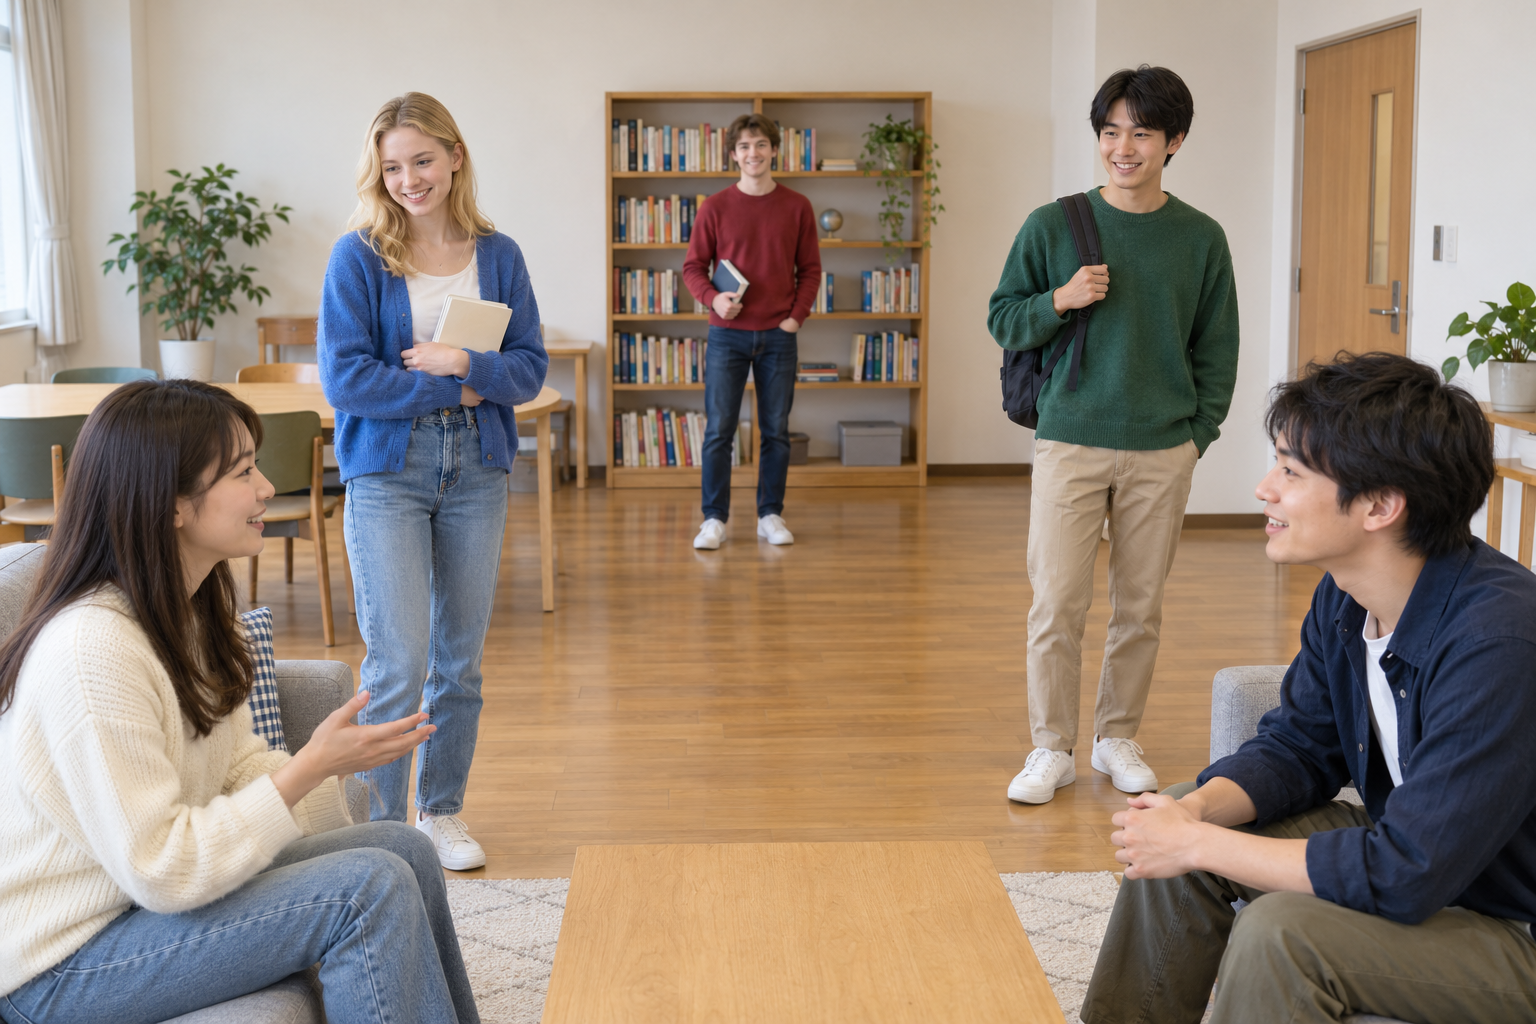
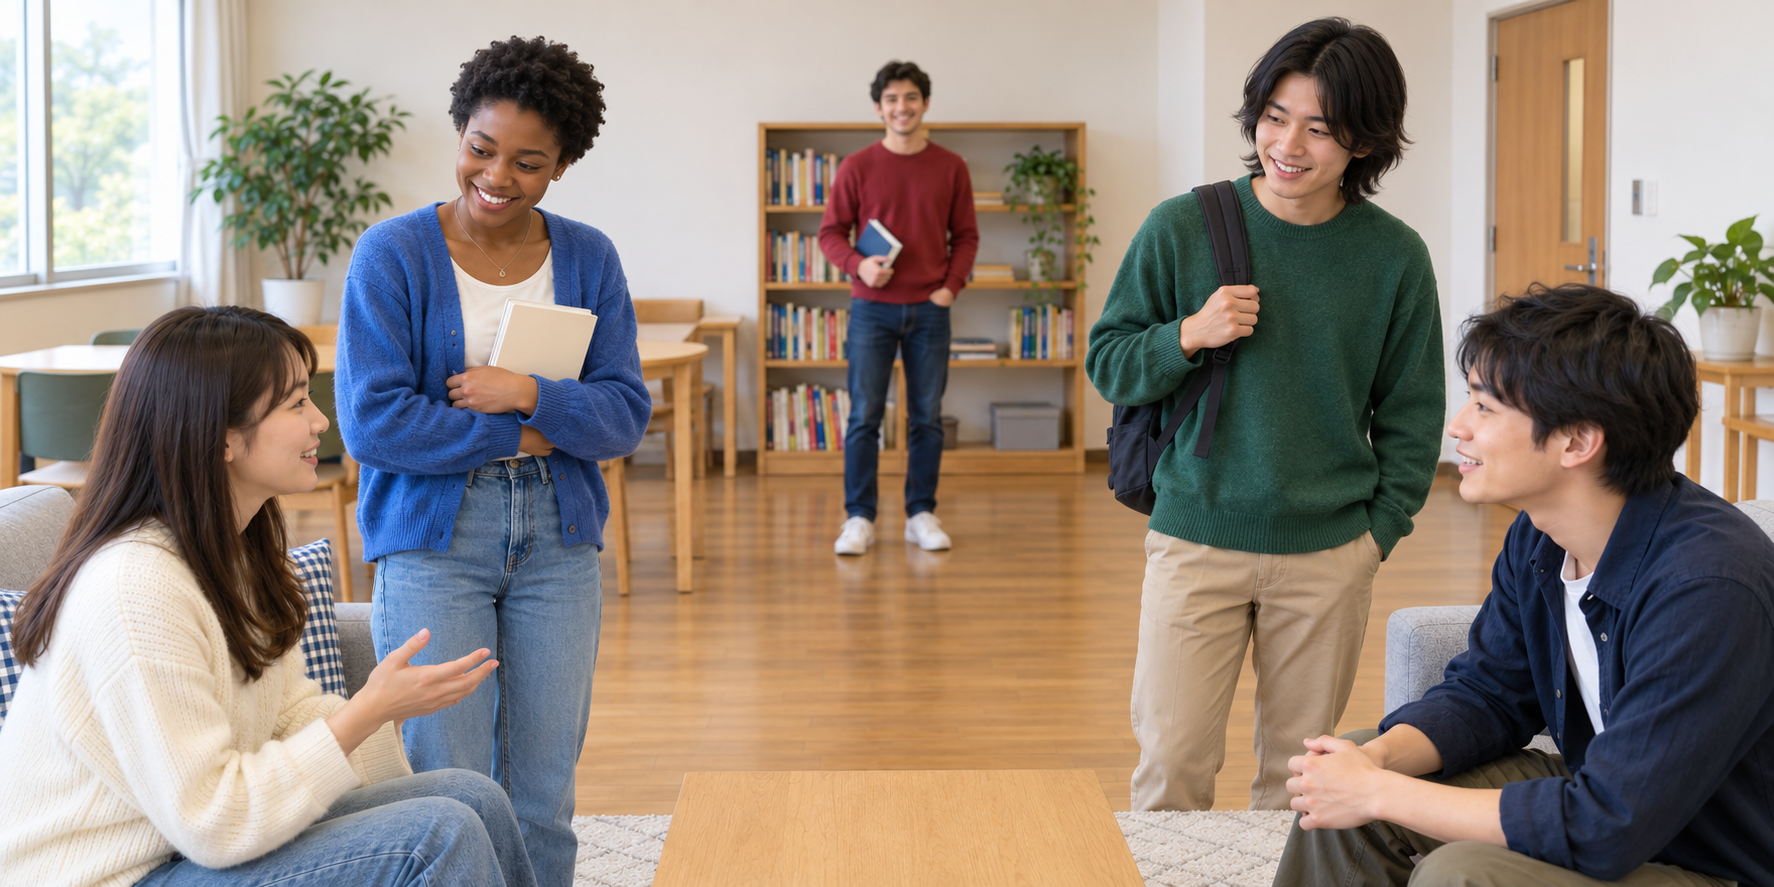
Integrate who-is-this-person topic into practice 2.2 Drill 3

diff --git a/practice2-next.js b/practice2-next.js
@@ -1315,7 +1315,7 @@ function practice2ShowNotice(resultSpan, message) {
         }
         const audioGrid=node('div','p2x-audio-grid');
         for(const [i,o] of objects.entries()) {
-            const position=hats?shopGeometry.centers[['A','B','far'].indexOf(o.zone)]:!is22?{A:[20,84],B:[51,84],far:[84,76]}[o.zone]:people?{A:[28,48],B:[73,46],far:[50,35]}[o.zone]:{A:[25,52],B:[73,53],far:[50,23.5]}[o.zone];
+            const position=hats?shopGeometry.centers[['A','B','far'].indexOf(o.zone)]:!is22?{A:[20,84],B:[51,84],far:[84,76]}[o.zone]:people?{A:[28,51],B:[72,51],far:[51,36]}[o.zone]:{A:[25,52],B:[73,53],far:[50,23.5]}[o.zone];
             const target=node('div',people?'p2x-person-target':'p2x-object');target.dataset.zone=o.zone;target.dataset.kind=o.kind;target.dataset.color=o.colorName||'';
             target.style.left=position[0]+'%';target.style.top=position[1]+'%';
             if(photoKind==='clock'){target.style.width=(o.zone==='A'?11:10)+'%';target.style.aspectRatio=o.zone==='B'?'1.8':'1';}
@@ -1627,7 +1627,7 @@ function practice2ShowNotice(resultSpan, message) {
 
     function renderSections() {
         shopAudioCleanups.splice(0).forEach(cleanup=>cleanup());
-        for(const id of ['drill1Container','drill2Container','drill3Container',...(is22?['peopleContainer']:['drill4Container'])]){const c=document.getElementById(id);c.replaceChildren();c.hidden=false;}
+        for(const id of ['drill1Container','drill2Container','drill3Container',...(is22?[]:['drill4Container'])]){const c=document.getElementById(id);c.replaceChildren();c.hidden=false;}
         if(!is22){renderCitySections();return;}
         const d1=document.getElementById('drill1Container');
         const exObjects=is22?[['A','せんえん','千円',1000],['B','さんぜんえん','三千円',3000],['far','よんせんえん','四千円',4000]].map(([zone,priceHira,priceKanji,priceNumber])=>({kind:'hat',hira:'ぼうし',kanji:'帽子',romaji:'bōshi',meaning:'hat',zone,priceHira,priceKanji,priceNumber})):places();
@@ -1670,7 +1670,7 @@ function practice2ShowNotice(resultSpan, message) {
             });
         }
         }
-        if(is22){renderPriceDialogue(document.getElementById('drill2Container'));renderFoodChoosing(document.getElementById('drill3Container'));renderDialogue();}
+        if(is22){renderPriceDialogue(document.getElementById('drill2Container'));renderFoodChoosing(document.getElementById('drill3Container'));}
         else {renderDialogue();renderChoosing();}
     }
     function renderPriceStatements(container) {
@@ -1702,6 +1702,7 @@ function practice2ShowNotice(resultSpan, message) {
         });
     }
     function renderFoodChoosing(container) {
+        if(practice2State.choosingSet===2){renderPeopleChoosing(container);return;}
         const exampleObjects=merchandise('fruit'),sample=exampleObjects[0],box=node('section','example-box p2x-dialogue-example p2x-food-example');
         const selectExample=scene(box,exampleObjects,{which:true,model:true});
         const qText=o=>'どの'+noun(o)+'が、'+price(o)+(speechStyle==='formal'?'ですか？':'？');
@@ -1709,7 +1710,7 @@ function practice2ShowNotice(resultSpan, message) {
         q.append(node('strong','','A · Question: '),listen(()=>{selectExample('A',sample.zone);return qText(sample);},'🔊きく',()=>selectExample.announce('A')),modelText(()=>qText(sample),sample));
         r.append(node('strong','','B · Response: '),listen(()=>{selectExample('B',sample.zone);return short(adnominal('B',sample));},'🔊きく',()=>selectExample.announce('B')),modelText(()=>short(adnominal('B',sample)),sample));box.append(q,r);container.append(box);
         panel(container,'Drill 3: どの + noun','💡A: Ask which group has that price. B: この／その／あの + noun. ※ Price = whole group. Nouns and この／その／あの keep the same form for one or more items.');
-        const set=setButtons(container,['おにぎり',word('おべんとう','お弁当')],'choosingSet'),objects=merchandise(set===0?'onigiri':'bento'),select=scene(container,objects,{which:false,speakerGuide:false});
+        const set=setButtons(container,['おにぎり',word('おべんとう','お弁当'),'この人はだれ'],'choosingSet'),objects=merchandise(set===0?'onigiri':'bento'),select=scene(container,objects,{which:false,speakerGuide:false});
         objects.forEach((o,i)=>{
             const current=card(container,String(i+1)),prefix=`p22_food_s${set}_A_${i}`;
             const q=recordingRow(current,'q',`<strong>A · Question:</strong> どの／${vocabulary(o)}／${priceCue(o)}`,prefix+'_q',()=>qText(o));
@@ -1718,6 +1719,32 @@ function practice2ShowNotice(resultSpan, message) {
             attach(q,'A',o,select);attach(r,'B',o,select);
         });
     }
+    function renderPeopleChoosing(container) {
+        const set=practice2State.dialogueSet===1?1:0,asker=set===0?'A':'B',answerer=asker==='A'?'B':'A';
+        const objects=PracticeNext.people.map((o,i)=>({...o,zone:['A','B','far'][i]})),sample=objects[0];
+        const box=node('section','example-box p2x-dialogue-example p2x-people-example');
+        box.append(node('p','p2x-context-note','どれ = which one? · だれ = who?'));
+        const showExample=scene(box,objects,{people:true,model:true});
+        const qtext=()=>question(demonstrative(asker,sample)+word('ひと','人'),word('だれ','誰')),rtext=()=>short(noun(sample)+'さん');
+        for(const [role,speaker,text]of [['Question',asker,qtext],['Response',answerer,rtext]]){
+            const line=node('p');line.append(node('strong','',`${speaker} · ${role}: `),listen(()=>{showExample(speaker,sample.zone);return text();},'🔊きく',()=>showExample.announce(speaker)),modelText(text,sample));box.append(line);
+        }
+        container.append(box);
+        panel(container,'Drill 3: この人はだれですか','💡Ask who each person is. Answer with the name.');
+        setButtons(container,['おにぎり',word('おべんとう','お弁当'),'この人はだれ'],'choosingSet');
+        setButtons(container,['A asks','B asks'],'dialogueSet');
+        const select=scene(container,objects,{people:true,speakerGuide:false});
+        objects.forEach((o,i)=>{
+            const c=card(container,String(i+1)),prefix=`p22_d2_s${set}`;
+            const subject=()=>demonstrative(asker,o)+word('ひと','人');
+            const q=recordingRow(c,'q',`<strong>${asker} · Question:</strong> ${demonstrative(asker,o)}／${formatWord('ひと','人','hito','person')}／${formatWord('だれ','誰','dare','who')}`,`${prefix}_q_${i}`,()=>question(subject(),word('だれ','誰')));
+            const key=`${prefix}_r_${i}`;
+            practice2State.replyReferences[key]=()=>[short(noun(o)),statement(demonstrative(answerer,o)+word('ひと','人'),noun(o)+'さん'),statement(demonstrative(answerer,o)+word('ひと','人'),noun(o))];
+            const r=recordingRow(c,'a',`<strong>${answerer} · Response:</strong> …`,key,()=>short(noun(o)+'さん'));
+            attach(q,asker,o,select);attach(r,answerer,o,select);
+        });select(asker);
+    }
+
     function renderDialogue() {
         const d2=document.getElementById(is22?'peopleContainer':'drill2Container');
         panel(d2,is22?'この人はだれですか — Under review':'Drill 2: Where is it?',is22?'💡A: Ask who each person is. B: Answer with the name.':'💡A: Ask where each object is. B: Answer with ここ／そこ／あそこ.');

diff --git a/style.css b/style.css
@@ -2557,7 +2557,7 @@ body.site-scale {
 .p2x-example-picture { width: 75%; }
 .p2x-stage { position: relative; aspect-ratio: 1536 / 740; overflow: hidden; border-radius: 8px; isolation: isolate; }
 .p2x-photo { position: absolute; top: 0; left: 0; display: block; width: 100%; height: auto; }
-.p2x-people-picture .p2x-stage { aspect-ratio: 3 / 2; }
+.p2x-people-picture .p2x-stage { aspect-ratio: 2 / 1; }
 .p2x-floor-picture .p2x-stage { aspect-ratio: 3 / 1; }
 .p2x-speaker-guide { position: relative; top: auto; left: auto; z-index: 10; display: inline-flex; color: #e60012; background: #fff5f5; text-shadow: none; margin: 0 0 10px; }
 .p2x-person { position: absolute; z-index: 3; padding: 0 5px; color: #111827; background: #fffef0; border-radius: 4px; }
@@ -3073,3 +3073,8 @@ body[data-practice="2.3"] .tooltip-tip { position: fixed; left: 12px; top: 12px;
 @media(prefers-reduced-motion:reduce) { .p23-city-picture .p23-city-person.is-speaking { animation: none; background: #fecaca; } }
 /* City information follows Time's look, with a four-pixel edge clearance. */
 .p23-describe-picture .p23-city-name { right: 4px; bottom: 4px; }
+
+/* 2.2 people set: names stay below faces in the compact photograph. */
+.p2x-people-picture .p2x-person-target { height: 90%; }
+.p2x-people-picture .p2x-person-target[data-zone="far"] { width: 12%; height: 60%; }
+.p2x-people-picture .p2x-person-name { top: auto; bottom: 4px; }

diff --git a/practice2.2.html b/practice2.2.html
@@ -161,7 +161,6 @@
          ========================================================= -->
     <div id="drill2Container" class="practice-section"></div>
     <div id="drill3Container" class="practice-section"></div>
-    <div id="peopleContainer" class="practice-section"></div>
 
     <!-- =========================================================
          Footer

diff --git a/docs/PRACTICE22_23_SPEC.md b/docs/PRACTICE22_23_SPEC.md
@@ -18,7 +18,7 @@
 
 ### ExampleとDrillの順序
 
-- E1→D1→E2→D2→E3→D3。その後に「この人はだれですか — Under review」を残す。各セクションはExampleを先に置き、その直後に対応Drillの見出しを置く。
+- E1→D1→E2→D2→E3→D3。D3はおにぎり/おべんとう/この人はだれの3セット。旧最下部のUnder review人物課題をD3へ統合する。各セクションはExampleを先に置き、その直後に対応Drillの見出しを置く。
 - E1・E2・E3の枠ラベルはExample1・Example2・Example3。枠内の重複したExample見出しは付けない。A／BのQuestion・Response見出しがあるモデル再生ボタンは単に「🔊きく」。E1の画像内ボタンは話者識別が必要なのでA🔊きく／B🔊きくを維持する。
 
 ### E1・D1：肯定文で値段を述べる
@@ -40,11 +40,14 @@
 - どのを含む主語の「が」、品名、価格、返答者視点を照合。色による指定・所有物の質問は使わない。名詞と指示表現は単複で形を変えないと短く補足する。
 - ど案内は2.1と同じ雲形・赤系・画像右上、小さい丸は短い棚の右端付近。
 
-### 最下部の検討中課題：この人はだれですか
+### D3の人物セット：この人はだれですか
 
-- 削除・非表示にはせず、E3・D3より後に残す。今後の構成を検討する補足として表示。
-- 既存の人物写真でA左・B右、メアリーはA側、たけしはB側、ロバートは遠方。Set 1はA質問、Set 2はB質問、各3会話。短答と正しい返答者視点の主題補完を許容する。
-- だれのですかの所有格課題は導入しない。
+- D3の第三セット「この人はだれ」を選ぶと、人物Example3→Drill 3見出し→題材切替→A asks/B asks→人物写真→3組のQuestion/Responseを表示する。おにぎり/おべんとうの既存課題は維持。旧peopleContainerとUnder review表示は撤去。
+- 写真は横長2:1、Aは手前左、Bは手前右。Aの隣は黒人女性メアリー（ショートヘア・青いカーディガン）、Bの隣は日本人男性たけし（長めの黒髪・緑のセーター）、二人から離れた奥中央はメキシコ系男性ロバート（赤いセーター）。名前はHTMLで顔より下に表示。対象ホバー/再生・録音時の強調とExampleのWho案内を継承し、DrillにはWhoを出さない。
+- Example内の既存補足「どれ = which one? · だれ = who?」も維持する。
+- A asks：この人→メアリー、その人→たけし、あの人→ロバート。B asks：その人→メアリー、この人→たけし、あの人→ロバート。各3会話、番号1〜3、計6組。
+- 質問モデルはこの/その/あの人はだれですか、返答モデルはメアリーさんです/たけしさんです/ロバートさんです。名前だけの短答や、返答者視点の正しい指示語＋人は＋名前（さん）も許容。誤った人物名/指示語は不可。同じ人物の視点交代なので「も」へ変えない。
+- 課題キーp22_d2_s{0/1}_q/r_{row}とdialogueSetを維持し、食品セットchoosingSet={0,1}と人物={2}で録音/認識/判定を混同しない。準備/録音中は題材・質問者を切り替えない。
 
 ## 2.3 ここ・そこ・あそこ・どこ：現行構成（2026-10-29）
 

diff --git a/docs/HANDOVER.md b/docs/HANDOVER.md
@@ -3,6 +3,7 @@
 最終更新日：2026-10-29
 
 ## 現在のリレー状態（2026-10-29／Europe/Vienna）
+- 今回開始main be221fd/work、同期クリーン確認。ユーザー確認D3に人物セット追加。おにぎり/おべんとう/この人はだれ、人物ではA asks/B asks各3会話。旧最下部Under reviewを統合、名前短答モデルと返答者視点全文の許容/旧キー維持。生成写真を既存people画像へ差替え（A側黒人短髪メアリー/B側長髪たけし/奥メキシコ系ロバート）、2:1/顔下名前へ。共通sceneはpeople時だけ配置調整、2.3には影響なし。2.2自動407件/余白52件PASS、375〜1440pxラベル検査、600/1440px画像確認。どれ/だれの既存補足もExample内へ移設。仕様/語彙監査更新、構文/差分チェックPASS。公開反映/ユーザー実機未確認。
 - 今回開始main f0cbc3c/work、同期クリーン確認。2.1 D4 English cuesを追加、D1両セット/D2両セット/D3両セットの問題キュー英日切替、D3色/Example/画像/日本語モデル/既存録音キー維持。準備録音中は無効、再生中切替は中断。D3→D4共通40px。ユーザーの移動先に関する意見照会へ、D1見出しへの移動を推奨と回答。実装変更の明示指示はまだないため現行Ex1＋本文1行余白を維持。仕様/検証更新。2.1自動810件・英日移動145件・余白54件PASS。構文/差分チェックPASS、600/1440pxプレビュー確認。公開反映/ユーザー実機未確認。
 - 今回開始main e8e527a/work、同期クリーン確認。2.3 D3 Day通常キューを日本語へ戻し、画像Sun./Sat.維持。D4 English cuesパネル/トグル新設：D1〜D3の問題キューのみ英語/日本語、Ex1/画像/日本語モデルは維持。切替は再生停止→再描画→Ex1へ本文1行余白でsmoothスクロール。準備/録音中無効、既存キー/録音/認識/判定・セット間の英語状態維持。仕様/既存検証更新。2.3自動2205件、2.2回帰404件、英日キュー移動97件、余白54件PASS。構文/差分チェックPASS、600/1440px英語キュー/D4プレビュー確認。公開反映/ユーザー実機未確認。
 - 今回開始main 6d29540/work、同期クリーン確認。DayはSun./Sat.の画像/返答キューへ、日本語ホバー維持。Time画像ヒントは日本語/ローマ字/英語各1回、Item1/Item2の背景施設ヒント撤去・品物保持。全11ページ35状態延べ371種のホバー内容を点検し2.1/2.3 pen、2.2 banana/たけし、7.3 karaoke/kanjiの同一表記重複を除去。異なる読み/英訳は維持。再点検で重複候補/JSエラーなし。自動検証2.3 2183件、2.2 404件、2.1 792件、全ページホバー配置318件PASS。構文/差分チェックPASS、600/1440px Day表示確認。公開反映/ユーザー実機未確認。

diff --git a/docs/PROJECT_SPEC.md b/docs/PROJECT_SPEC.md
@@ -1100,3 +1100,5 @@ Voice変更時の旧モデル曲線消去は実装済み。モデル文変更時
 - 2026-10-29：2.3 D3 Dayのキューはにちようび/どようびに戻す（漢字設定に従う）。画像Sun./Sat.維持。D4にEnglish cuesを追加、D1〜D3問題キューを切り替えてEx1へ戻る。モデル・録音・判定は維持、録音/準備中の切り替え不可。詳細PRACTICE22_23_SPEC。
 
 - 2026-10-29：2.1にもD4 English cuesを追加。D1全セット/D2/D3の問題キューのみ英語化、色キュー保持、日本語モデル/録音/判定維持、準備録音中無効、切替時Ex1へ戻る。D1移動案は推奨と回答したが未確定で変更していない。
+
+- 2026-10-29：2.2 D3へ「この人はだれ」人物セットを統合。おにぎり/おべんとう維持、A asks/B asks各3会話、名前短答モデル/返答者視点の全文許容。旧最下部Under review撤去、既存人物キー維持。写真は横長2:1へ更新し、A側メアリー黒人ショート、B側たけし長髪、奥ロバートメキシコ系。

diff --git a/docs/UI_LAYOUT_SPEC.md b/docs/UI_LAYOUT_SPEC.md
@@ -404,3 +404,5 @@ L1・L2ページはHiragana初期表示。練習2のWith漢字は参考漢字表
 - 2026-10-29：2.3 D3 Dayの通常返答キューを日本語に戻す。画像はSun./Sat.。D4 English cuesパネルを最下部に追加、練習7同様の切り替えボタンと1行余白を残すEx1へのスクロール。D1〜D3問題キューのみ切り替え、録音中は無効化。
 
 - 2026-10-29：2.1の最下部に2.3と同じD4 English cuesパネルを追加。D3→D4は共通40px間隔。英日切替後の移動先は現行Ex1＋1行余白を維持、D1へ変更する案は検討中。
+
+- 2026-10-29：2.2 D3人物セットの写真は2:1、Example/Drillの既定幅75%/60%（狭幅100%）を維持。人物名は顔より下、A/Bは手前の話者に付ける。おにぎり/おべんとう/この人はだれ＋A asks/B asksの2段切り替え。旧最下部の人物セクションはD3へ統合。
